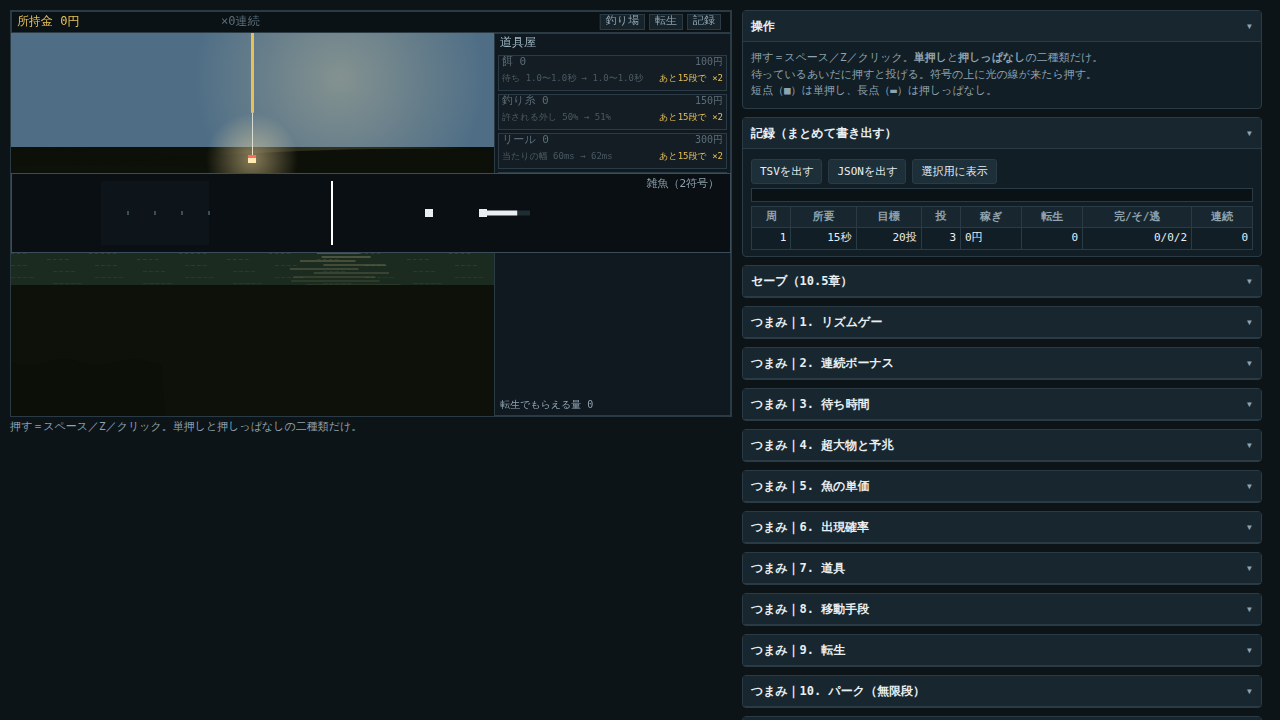
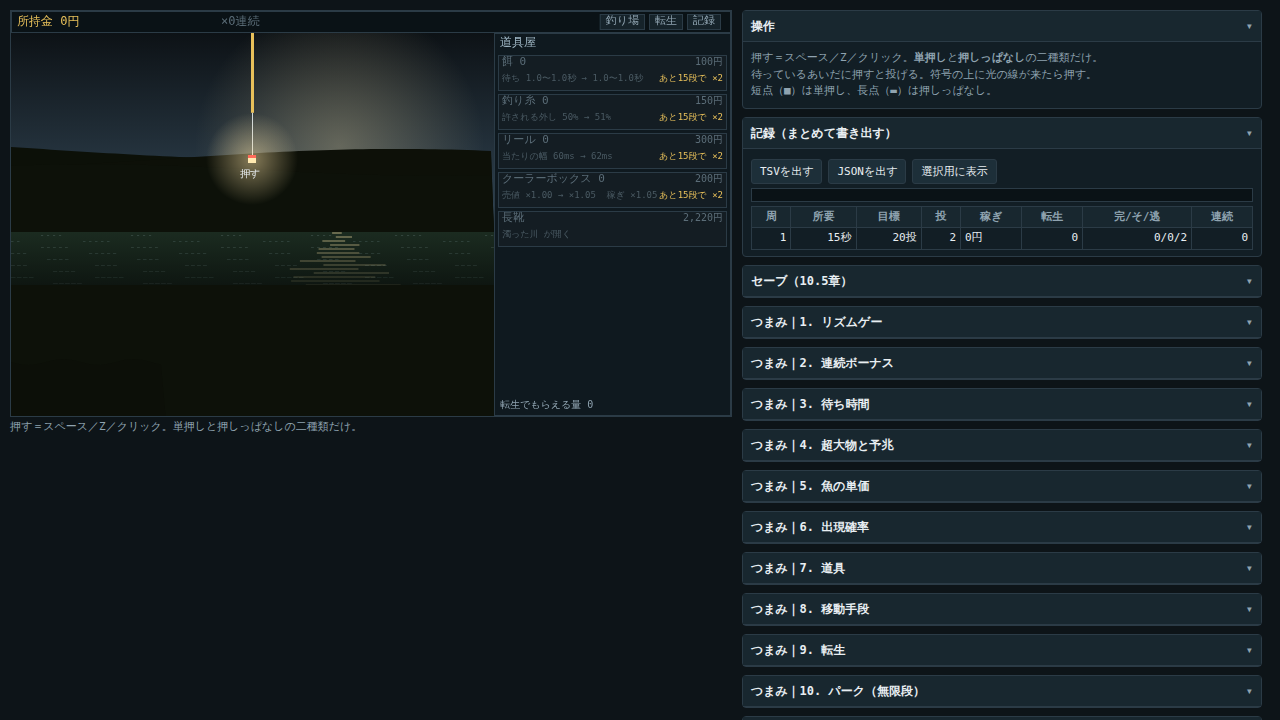
画面Aを見本（1と3を重ねた案）そのままに直す
前の版は明度を三段に畳む規則を後から足していて、その結果
空が明るい面になり、案3の肝である「光っているものだけが明るい」が消えていた。
見本の層ごとの暗さ・割合・光源の位置をそのまま初期値にした。

- 五層それぞれに別の暗さ（地/空上下/遠景三枚/水面上下/水中上下/手前）
- 光源の色から白に近いものを外す（白い反射の柱は「面」に見える）
- さざなみの色を、光源の色から水の色を白へ寄せたものに変える
- 明度の測り方を、段を数えるやり方から決そのものを測るやり方へ

Claude-Session: https://claude.ai/code/session_01FWfDWPPf3eFfUKrHUiB2gN

Changed region(s): [[0.0, 0.0306, 0.5625, 0.3667], [0.0, 0.3056, 0.0938, 0.3361]]

diff --git a/spec.md b/spec.md
@@ -2965,15 +2965,37 @@ C 釣り場選び ⇄ A 釣りの画面 → B 転生 → C
 > 「残りの段を均等に分けない」（`gamedev/references/mitame.md` 014）。
 > **測るときは、道具屋（画面の23%）と上端も数に入れる** ── 目に入るもの全部で測るため。
 
-> **層ごとに別の暗さにしない（決）。**実装して測ったら、
-> **5段に散って、いちばん広い帯が31%**になった。
-> **三段（明・中・暗）に畳み、暗の段の中では色相だけを変える。**
-> 暗の段が支配的になる ── 道具屋（画面の23%）と遠景・水中・手前が全部そこに入るため。
+> **層ごとに別の暗さを持たせる（決・第36版）。**
+> 一度「明度を三段に畳み、暗の段の中では色相だけを変える」を入れたが、
+> **それだと見本と違う絵になった**（空が明るい面になって画面を占め、
+> 3の肝である「光っているものだけが明るい」が消えた）。
+> **見本の層ごとの暗さを、そのまま実装の初期値にする。**
 >
->     用水路   段3／いちばん広い帯 51%
->     堤防     段4／51%
->     洞窟     段2／72%
->     深海     段2／76%
+>     地        0.09        空 上端 0.14 → 水平線 0.33
+>     遠景      0.14（奥）から一枚ごとに +0.04
+>     水面      上 0.30 → 下 0.18
+>     水中      上 0.15 → 底 0.08
+>     手前      0.05
+>
+> 数字は**釣り場の色にかける倍率**（1.0で元の色）。釣り場が変わっても倍率は同じで、
+> **色だけが差し替わる。**割合の位置は 水平線 0.46／遠景の峰 0.34／水面の下端 0.80／
+> 手前の上端 0.86／浮き 0.52。**全部つまみ**（10章12）。
+
+> **光源の色は、白にしない（決・第36版）。**
+> 白い光は反射の柱が「面」に見えてしまい、光っていることが読めない。
+> **色の付いた光にする**（用水路は琥珀、澄んだ湖と氷の下は青緑）。
+
+> **明度の測り方を変えた（第36版）。**
+> 「明度を10%刻みで数え、段が2〜4／一段が50%超」で測っていたが、
+> **10%の線のどちら側かで、同じ一つの暗い塊が2段に割れた**（用水路 43.9%／43.1%）。
+> 隣の目盛りを繋ぐようにしたら、今度は**何を入れても通る**ようになった。
+> **数えるのをやめ、決がそのまま言っていることを測る。**
+>
+>     1. 背景の面が暗の段に収まっているか（左端の帯で測る。竿も浮きも光源も無い）
+>     2. いちばん明るい画素が、浮きの灯りの近くに在るか
+>
+>     用水路   面 0.30／浮きから 5画素      堤防   面 0.25／5画素
+>     洞窟     面 0.17／5画素               深海   面 0.12／5画素
 >
 > **`friction-check.mjs` が四つの釣り場で毎回測る。**
 

diff --git a/decisions.md b/decisions.md
@@ -1002,3 +1002,32 @@
   **5段に散っていちばん広い帯が31%**になった。相場は「段は2〜4」「一つが50%超」。
   **暗の段の中では色相だけを変える**
 - 変更：安い（つまみ）。**`friction-check.mjs` が四つの釣り場で毎回測る**
+
+## 画面Aは、見本の絵をそのまま実装する（第36版）
+
+- 何を決めたか：五層それぞれに別の暗さを持たせ、見本（1と3を重ねた案）の
+  割合と倍率をそのまま初期値にする。「明度を三段に畳む」は取り消した
+- 画面で何に見えるか：空が明るい面にならない。**明るいのは、空の残光と浮きの灯りだけ。**
+  水面には光の柱が伸び、手前の岸が額縁になる
+- なぜ：1（調べれば決まる）。**見本と実装を並べて見たら違っていた。**
+  三段に畳むのはこちらが後から足した規則で、見本には無い
+- いつまでなら安い：いまが安い。層の割合と倍率は全部つまみなので、触れば動く
+
+## 光源の色は白にしない（第36版）
+
+- 何を決めたか：釣り場の光の色から、白に近いものを外した
+  （用水路 → 琥珀、澄んだ湖 → 青緑、氷の下 → 水色、濁った川 → 砂）
+- 画面で何に見えるか：水面に伸びる反射の柱に色が付く。
+  白いままだと柱が「白い面」に見えて、光っていることが読めなかった
+- なぜ：2（上位の決定から導ける）。「明の段に置くのは光っているものだけ」から。
+  白は面と見分けが付かない
+- いつまでなら安い：いつでも。釣り場の表の一列を書き換えるだけ
+
+## 明度は、段の数ではなく決そのものを測る（第36版）
+
+- 何を決めたか：10%刻みで段を数えるのをやめ、
+  「背景の面が暗の段に収まっているか」「いちばん明るい画素が浮きの近くに在るか」を測る
+- 画面で何に見えるか：見えない（測り方の話）。ただし**外れが出る測り方に戻った**
+- なぜ：1（調べれば決まる）。刻みの線のどちら側かで同じ塊が2段に割れ、
+  隣を繋ぐと今度は何でも通った。**通らない測り方でないと、測ったことにならない**
+- いつまでなら安い：いつでも。tools/friction-check.mjs の一箇所

diff --git a/builds/README.md b/builds/README.md
@@ -80,3 +80,7 @@
   （影が細すぎ、目印が帯の端と重なっていた）。弾けたあと長音に何をするかを六つ並べた。**触って判定済み**
 - `2026-08-20-tezawari-rhythm-6.html` … 6回目。**出した文にコピーのボタンを付けた。**
   枠を textarea にして選びやすくし、**どの版の設定かを文の先頭に必ず入れる**ようにした
+
+- `2026-08-21-gosou-2.html` … 画面Aを**見本そのまま**に直した版。
+  一つ前（`2026-08-21-gosou.html`）は明度を三段に畳んでいて、空が明るい面になり、
+  見本の「光っているものだけが明るい」が消えていた
